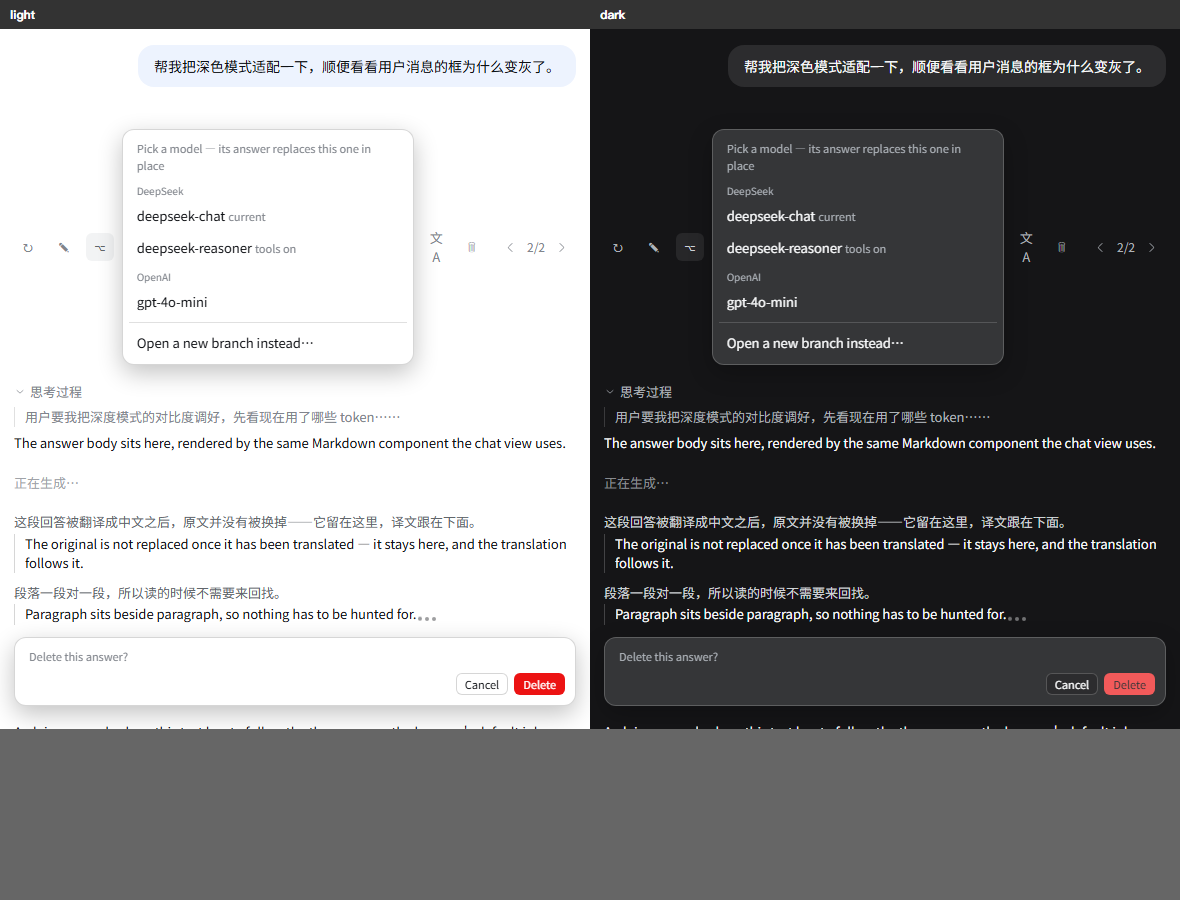
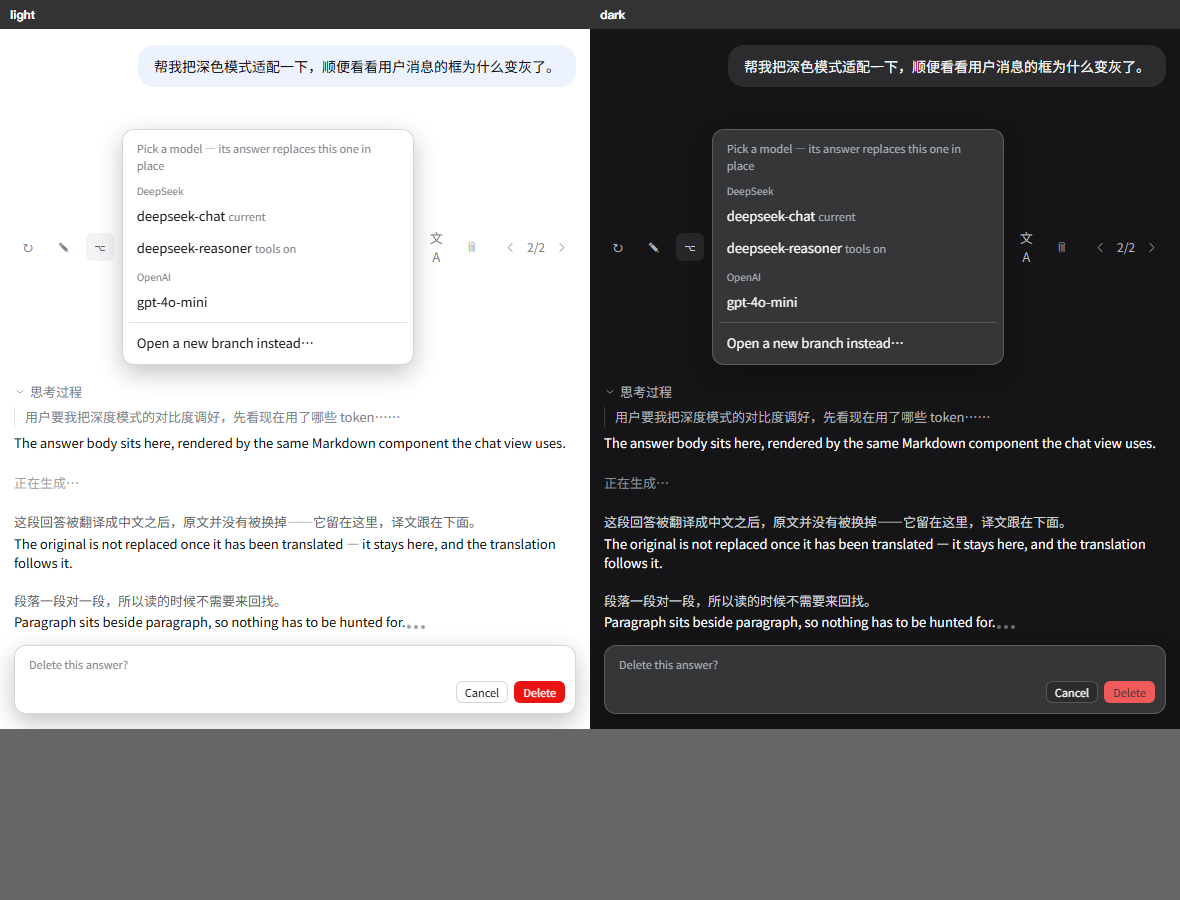
feat: do not translate text that is already in the target language
a sentence whose script is the target script is lifted out with the code and
formulas, so a half-Chinese answer translated into Chinese is neither sent to the
model nor drawn twice: on screen a pair whose halves match renders once.

also drops the rule beside a translation — the halves are told apart by ink.

diff --git a/lib/index.js b/lib/index.js
@@ -629,8 +629,9 @@ const TRANSLATE_SYSTEM = [
   'You are a precise professional translator.',
   'Translate the user-supplied text into the requested target language.',
   'Preserve Markdown formatting, links, lists and numbers exactly.',
-  'The text contains placeholders such as ⟦1⟧ standing for code and formulas that must not be touched:',
-  'copy every placeholder into your translation unchanged, in the same order, without translating them.',
+  'The text contains placeholders such as ⟦1⟧ standing for code, formulas and sentences already written in',
+  'the target language: copy every placeholder into your translation unchanged, in the same order, without',
+  'translating them and without repeating them.',
   'Do not translate code identifiers, file paths, URLs or model names.',
   'Do not add commentary, explanations or notes.',
   'Reply with ONLY the translated text.',
@@ -657,15 +658,68 @@ const INLINE_PATTERNS = [
 ];
 
 /**
- * Lift code and formulas out of the text, leaving `⟦n⟧` placeholders behind. A
- * block that already stood on its own (a fence, display math between paragraphs)
- * keeps that standing: it gets its own paragraph, because a fence that comes back
- * mid-sentence would render as plain text instead of a code block. Display math
- * written inside a sentence stays inline, where it was.
+ * Which script a target language is written in. Only used for languages whose text
+ * can be recognised by script: for those, a sentence already in the target language
+ * is not worth sending to a translator (or reading twice). Latin-script targets are
+ * absent on purpose — "English" and "German" look alike letter for letter.
  */
-function protectText(text) {
+const TARGET_SCRIPTS = {
+  zh: ['han'],
+  'zh-TW': ['han'],
+  ja: ['kana', 'han'],
+  ko: ['hangul'],
+  ru: ['cyrillic'],
+};
+
+const SCRIPT_TESTS = {
+  han: /[\u3400-\u4dbf\u4e00-\u9fff\uf900-\ufaff]/g,
+  kana: /[\u3040-\u30ff\u31f0-\u31ff]/g,
+  hangul: /[\u1100-\u11ff\u3130-\u318f\uac00-\ud7af]/g,
+  cyrillic: /[\u0400-\u04ff]/g,
+};
+
+const WORD_CHARS = /[A-Za-z\u00c0-\u024f\u0400-\u04ff\u3040-\u30ff\u3400-\u4dbf\u4e00-\u9fff\uac00-\ud7af]/g;
+
+function countMatches(text, pattern) {
+  const found = text.match(pattern);
+  return found === null ? 0 : found.length;
+}
+
+/**
+ * Is this piece already written in the target language? Judged by script share, which
+ * is decisive for Chinese/Japanese/Korean/Russian and deliberately unused for Latin
+ * scripts.
+ */
+function alreadyInTarget(piece, scripts) {
+  const words = countMatches(piece, WORD_CHARS);
+  if (words === 0) return false;
+  let mine = 0;
+  for (const script of scripts) mine += countMatches(piece, SCRIPT_TESTS[script]);
+  // Two characters is the shortest piece worth calling a sentence; below that the
+  // share is just noise from a stray word.
+  return mine >= 2 && mine / words >= 0.5;
+}
+
+/**
+ * Lift every sentence that is already in the target language, so it is neither sent
+ * to the model nor translated a second time. This runs before the code patterns,
+ * because a sentence like `先运行 \`npm run build\` 再继续。` should be kept whole —
+ * code included — rather than half-protected twice.
+ */
+function liftTargetLanguage(text, lang, kept) {
+  const scripts = TARGET_SCRIPTS[lang];
+  if (scripts === undefined) return text;
+  return text.replace(/[^\n。！？；!?;]+[。！？；!?;]?/g, (piece) => {
+    if (!alreadyInTarget(piece, scripts)) return piece;
+    kept.push(piece);
+    return `⟦${kept.length}⟧`;
+  });
+}
+
+/** Lift code, formulas and already-translated sentences out of the text. */
+function protectText(text, lang) {
   const kept = [];
-  let out = text;
+  let out = liftTargetLanguage(text, lang, kept);
   const lift = (block) => (match, offset, whole) => {
     kept.push(match);
     const token = `⟦${kept.length}⟧`;
@@ -781,7 +835,7 @@ async function translateMessage(ctx, operation, sink) {
     });
   }
   // Code and formulas stay out of the request entirely — see PROTECTED_PATTERNS.
-  const guarded = protectText(text);
+  const guarded = protectText(text, lang);
   let raw = '';
   let sent = 0;
   let failed;

diff --git a/lib/client.js b/lib/client.js
@@ -541,6 +541,17 @@ function pairParagraphs(source, translated) {
   return pairs;
 }
 
+/**
+ * Whether both sides say the same thing. A sentence that was already in the target
+ * language comes back untouched, and drawing it twice would read as a duplicate.
+ */
+function sameText(left, right) {
+  if (typeof left !== 'string' || typeof right !== 'string') return false;
+  const norm = function (text) { return text.replace(/\s+/g, ' ').trim(); };
+  const a = norm(left);
+  return a.length > 0 && a === norm(right);
+}
+
 /** The text this turn would show with the translation switched off. */
 function originOf(state, turn) {
   const origins = state ? state.origins : null;
@@ -2043,12 +2054,16 @@ function AnswerCard(props) {
       h('div', { className: 'mtt-pair' },
         pairs.map(function (pair, index) {
           const last = index === pairs.length - 1;
+          // A sentence that was already in the target language comes back verbatim:
+          // drawing it twice would read as a duplicate, so it is drawn once.
+          const unchanged = !streaming && sameText(pair.source, pair.translation);
           return h('div', { key: index, className: 'mtt-pair-block' },
             pair.source === undefined ? null
               : h('div', { className: 'mtt-pair-src' }, h(AnswerBody, { text: pair.source })),
-            h('div', { className: 'mtt-pair-tr' },
-              waiting && last ? null : h(AnswerBody, { text: pair.translation, streaming: streaming }),
-              streaming && last ? h(Dots, null) : null));
+            unchanged ? null
+              : h('div', { className: 'mtt-pair-tr' },
+                waiting && last ? null : h(AnswerBody, { text: pair.translation, streaming: streaming }),
+                streaming && last ? h(Dots, null) : null));
         })),
       !streaming && translation.truncated === true
         ? h('div', { className: 'mtt-pair-note' }, t('translationTruncated'))
@@ -3225,7 +3240,7 @@ const CSS = [
   '.mtt-pair{display:flex;flex-direction:column;gap:18px;min-width:0}',
   '.mtt-pair-block{display:flex;flex-direction:column;gap:2px;min-width:0}',
   '.mtt-pair-src{color:var(--mtt-fg-2);min-width:0}',
-  '.mtt-pair-tr{padding-left:10px;border-left:2px solid var(--mtt-line-strong);color:var(--mtt-fg);min-width:0}',
+  '.mtt-pair-tr{color:var(--mtt-fg);min-width:0}',
   '.mtt-dots{display:inline-flex;align-items:center;gap:3px;height:1em;vertical-align:-.1em;margin-left:2px}',
   '.mtt-dots i{width:4px;height:4px;border-radius:50%;background:currentColor;opacity:.4;animation:mtt-dot 900ms ease-in-out infinite}',
   '.mtt-dots i:nth-child(2){animation-delay:120ms}',

diff --git a/plugin.client.js b/plugin.client.js
@@ -521,6 +521,17 @@ function pairParagraphs(source, translated) {
   return pairs;
 }
 
+/**
+ * Whether both sides say the same thing. A sentence that was already in the target
+ * language comes back untouched, and drawing it twice would read as a duplicate.
+ */
+function sameText(left, right) {
+  if (typeof left !== 'string' || typeof right !== 'string') return false;
+  const norm = function (text) { return text.replace(/\s+/g, ' ').trim(); };
+  const a = norm(left);
+  return a.length > 0 && a === norm(right);
+}
+
 /** The text this turn would show with the translation switched off. */
 function originOf(state, turn) {
   const origins = state ? state.origins : null;
@@ -2023,12 +2034,16 @@ function AnswerCard(props) {
       h('div', { className: 'mtt-pair' },
         pairs.map(function (pair, index) {
           const last = index === pairs.length - 1;
+          // A sentence that was already in the target language comes back verbatim:
+          // drawing it twice would read as a duplicate, so it is drawn once.
+          const unchanged = !streaming && sameText(pair.source, pair.translation);
           return h('div', { key: index, className: 'mtt-pair-block' },
             pair.source === undefined ? null
               : h('div', { className: 'mtt-pair-src' }, h(AnswerBody, { text: pair.source })),
-            h('div', { className: 'mtt-pair-tr' },
-              waiting && last ? null : h(AnswerBody, { text: pair.translation, streaming: streaming }),
-              streaming && last ? h(Dots, null) : null));
+            unchanged ? null
+              : h('div', { className: 'mtt-pair-tr' },
+                waiting && last ? null : h(AnswerBody, { text: pair.translation, streaming: streaming }),
+                streaming && last ? h(Dots, null) : null));
         })),
       !streaming && translation.truncated === true
         ? h('div', { className: 'mtt-pair-note' }, t('translationTruncated'))
@@ -3205,7 +3220,7 @@ const CSS = [
   '.mtt-pair{display:flex;flex-direction:column;gap:18px;min-width:0}',
   '.mtt-pair-block{display:flex;flex-direction:column;gap:2px;min-width:0}',
   '.mtt-pair-src{color:var(--mtt-fg-2);min-width:0}',
-  '.mtt-pair-tr{padding-left:10px;border-left:2px solid var(--mtt-line-strong);color:var(--mtt-fg);min-width:0}',
+  '.mtt-pair-tr{color:var(--mtt-fg);min-width:0}',
   '.mtt-dots{display:inline-flex;align-items:center;gap:3px;height:1em;vertical-align:-.1em;margin-left:2px}',
   '.mtt-dots i{width:4px;height:4px;border-radius:50%;background:currentColor;opacity:.4;animation:mtt-dot 900ms ease-in-out infinite}',
   '.mtt-dots i:nth-child(2){animation-delay:120ms}',

diff --git a/README.md b/README.md
@@ -22,7 +22,7 @@ Cherry Studio.
 | **Failed answers** | turns that ended in an error | DSH draws an action row only for a turn that has a closing message, so a failed answer would have none. The toolbar draws one itself for that turn: regenerate, regenerate with another model, delete. No edit or translate — there is no text to work on. |
 | **Switch model** | assistant messages | Same mechanism with another provider/model: every model's answer becomes a variant of the *same* turn, and `‹ 2/3 ›` walks them without leaving the conversation. The picker is DSH's own dropdown (the one under the composer), so it looks and keys exactly like the rest of the app; its last row instead opens a real branch when you want a full agent run with tools. |
 | **Edit answer** | assistant messages & answer card | The pencil turns the answer into an editor *where the answer stands*: a bordered box holding the markdown source of its text (tool and file-change blocks are not part of it, so they stay on screen), labelled `Editing` with a ✕ to leave and a save button on the right. Esc closes, ⌘/Ctrl+Enter saves. **Saving overwrites what was on screen** — the ring does not grow a second answer — and the result is rendered by the same markdown body as a generated answer, so it looks unchanged. A logged answer that no API can rewrite takes an override instead, with one muted line (Edited by you · Restore the original) to give the model's text back. |
-| **Translate** | assistant answers | Pressing translate opens a dropdown of target languages (the same native menu as the model picker) — pick one and the answer is redrawn **bilingual, block by block**: original paragraph, its translation, next paragraph, all by the same markdown renderer, so the layout does not move and nothing is covered. It is a reading mode, not a second panel, and the language list ticks nothing (picking a language is a command, not a setting); the menu's first row then reads "Hide the translation". Cached per session + turn + language, so switching languages is instant and reloading does not re-bill. While the request is out, the translate button becomes a turning loading arc (the app's own) and cannot be pressed again; the glyph returns when the answer lands. The translation itself is **streamed**: the paired page appears at the first token and grows as the model writes, with three dots bobbing in the translation column until the first words arrive. No token cap is sent, because a translation is exactly as long as the text it translates. **Code and formulas never reach the model**: fenced blocks, inline code and math are lifted out and replaced with ⟦1⟧ placeholders, then put back byte for byte, so console.log(x) and \frac{a}{b} cannot be rewritten or reformatted — what comes back is the original, character for character. |
+| **Translate** | assistant answers | Pressing translate opens a dropdown of target languages (the same native menu as the model picker) — pick one and the answer is redrawn **bilingual, block by block**: original paragraph, its translation, next paragraph, all by the same markdown renderer, so the layout does not move and nothing is covered. It is a reading mode, not a second panel, and the language list ticks nothing (picking a language is a command, not a setting); the menu's first row then reads "Hide the translation". Cached per session + turn + language, so switching languages is instant and reloading does not re-bill. While the request is out, the translate button becomes a turning loading arc (the app's own) and cannot be pressed again; the glyph returns when the answer lands. The translation itself is **streamed**: the paired page appears at the first token and grows as the model writes, with three dots bobbing in the translation column until the first words arrive. No token cap is sent, because a translation is exactly as long as the text it translates. **Code and formulas never reach the model**: fenced blocks, inline code and math are lifted out and replaced with ⟦1⟧ placeholders, then put back byte for byte, so console.log(x) and \frac{a}{b} cannot be rewritten or reformatted — what comes back is the original, character for character. Sentences that are **already in the target language** are lifted out the same way — translating Chinese into Chinese only produces a second copy of the paragraph — and on screen a pair whose two halves match is drawn once. |
 | **Delete** | version cards | Soft-deletes a version: the card is hidden from the ring and the version tree but the session log is untouched and it can be restored. The root conversation can never be deleted. |
 | **Delete message / answer** | user bubbles & assistant answers | Two different scopes, and the toolbar follows them. On a user bubble it removes the whole turn — prompt, answer, tool cards, action row — because an answer without its question is not a turn. On an answer it removes only that answer's side: body, process card, tool cards, error banner and the action row that belonged to it, while the prompt keeps its own row and toolbar so the turn can be asked again. Either way nothing is left behind (no placeholder, no "restore" row) and a toast confirms it. |
 | **Version ring** | `‹ 2/3 ›` chip | Walks the answer variants of a turn (`1` is always the model's logged answer) and the sibling versions of a turn, without leaving the conversation. |
@@ -212,7 +212,7 @@ MIT
 | **失败的回答** | 报错结束的轮次 | DSH 只为有收尾消息的轮次画动作行，所以失败的回答本来没有工具栏。插件给这种轮次自己补一行：重新生成、换个模型重答、删除。没有编辑和翻译——没有文本可编辑、也没有内容可翻译。 |
 | **切换模型** | 助手消息 | 同一机制换 provider/模型：每个模型的回答都是**同一轮**的备选，`‹ 2/3 ›` 就地来回切换，不离开当前对话。模型选择器直接复用输入框右下角那个原生下拉（外观与键盘操作完全一致），它的最后一行则走真正的分支，用于需要调用工具的完整重跑。 |
 | **编辑回答** | 助手消息 / 回答卡片 | 点铅笔就在**回答原来的位置**变成编辑器：带边框的框里放这条回答的 markdown 源码（工具调用、文件改动不属于它的文本，所以留在框外照常显示），左上角写「编辑中」，右上角是 ✕（退出）和保存。Esc 退出，⌘/Ctrl+Enter 保存。**保存是直接覆盖你正在看的那份**——环里不会多出一个回答——而且用同一个 markdown 正文渲染器显示，所以样式和模型生成的一模一样；只有模型原本那条（日志改不了）会改成一条覆盖文本存在这一轮的记录里，下方不再多任何一行。 |
-| **翻译** | 助手回答 | 点翻译直接弹出语言下拉（就是切换模型那个原生菜单），选一种语言，回答就**就地按段对照**重画——原文一段、译文一段、再下一段——还是同一个 Markdown 渲染器，排版不动、也没有东西被盖住。它是一种阅读模式而不是第二块面板；语言列表里不会打钩（选语言是命令，不是设置），译文显示时菜单第一行是「隐藏译文」。按 会话+轮次+语言 缓存，换语言即时、刷新不会重复计费。翻译请求在路上时，翻译按钮会变成转圈的加载图标（应用自带的那个），期间不能重复点；拿到结果后就变回图标。译文本身是**流式**的：第一个 token 到达时对照页就出现，随后一段段长出来，文字到来之前译文那一栏是三个上下跳动的点。请求里不带 token 上限——译文有多长，取决于它译的原文有多长。**代码和公式不会发给模型**：围栏代码块、行内代码、行内与独立公式都会先被抽出来换成 ⟦1⟧ 占位符，模型译完再原样放回去，所以 console.log(x) 和 \\frac{a}{b} 不会被改写、不会被重排——拿回来的跟原文一字不差。 |
+| **翻译** | 助手回答 | 点翻译直接弹出语言下拉（就是切换模型那个原生菜单），选一种语言，回答就**就地按段对照**重画——原文一段、译文一段、再下一段——还是同一个 Markdown 渲染器，排版不动、也没有东西被盖住。它是一种阅读模式而不是第二块面板；语言列表里不会打钩（选语言是命令，不是设置），译文显示时菜单第一行是「隐藏译文」。按 会话+轮次+语言 缓存，换语言即时、刷新不会重复计费。翻译请求在路上时，翻译按钮会变成转圈的加载图标（应用自带的那个），期间不能重复点；拿到结果后就变回图标。译文本身是**流式**的：第一个 token 到达时对照页就出现，随后一段段长出来，文字到来之前译文那一栏是三个上下跳动的点。请求里不带 token 上限——译文有多长，取决于它译的原文有多长。**代码和公式不会发给模型**：围栏代码块、行内代码、行内与独立公式都会先被抽出来换成 ⟦1⟧ 占位符，模型译完再原样放回去，所以 console.log(x) 和 \\frac{a}{b} 不会被改写、不会被重排——拿回来的跟原文一字不差。**本来就是目标语言的句子**同样被抽出来——中文译成中文只会多出一份重复——页面上如果一对原文与译文完全相同，就只画一次。 |
 | **删除** | 版本卡片 | 软删除：从版本徽标和版本树里隐藏，但会话日志不动，可随时恢复。根对话永远不可删除。 |
 | **删除消息 / 回答** | 用户气泡 / 助手回答 | 把某一轮（消息、回答、工具卡片）或单独一条回答从对话里删掉，比如清掉某一轮卡住后连发的一串「继续」。删掉就真的没了，原位不留任何东西（结果用顶部提示条告诉你）。 |
 | **版本左右翻** | `‹ 2/3 ›` 徽标 | 在不离开当前对话的情况下翻看这一轮的回答备选（第 1 位永远是模型原始回答）以及同轮的不同版本。 |

diff --git a/docs/ARCHITECTURE.md b/docs/ARCHITECTURE.md
@@ -355,6 +355,17 @@ Two consequences worth writing down, because both were bugs once:
 
 ### Streaming a translation
 
+`translate` accepts `stream: true` and answers with the same NDJSON frames `answer-generate` does — `start`
+(with `seq`, `turn`, `lang`, `provider`, `model`), one `delta` per token batch, then `done` carrying the same
+payload a plain POST would return (cached translations answer with a single `done`). Host side both writers
+share `respondStream(response, run)`; client side both share `streamOperation(operation, handlers)`, so there
+is one reader to trust. The translation has its own live cell (`store.liveTranslations`, keyed
+`${sessionId}|${turn}`) because nothing else about the turn is changing while it arrives: `AnswerCard` draws
+the paired page on the first delta, and while the text is still empty it draws three bobbing dots (`.mtt-dots`)
+in the translation column. During the stream the card keeps the whole original in one block and grows the
+translation beneath it, so blocks never re-pair mid-sentence; paragraph pairing happens once, when the
+translation is complete.
+
 ### Code and formulas are not translated
 
 Handing code to a translator is asking for it to be rewritten: an identifier gets translated, a fence gets
@@ -368,16 +379,15 @@ inline, where it was. The system prompt tells the model to copy placeholders unc
 that has only partly arrived (`settledLength()`), so `⟦1` never appears on screen. The finished translation
 collapses any padding blank lines (`/\n{3,}/g` → `\n\n`).
 
-`translate` accepts `stream: true` and answers with the same NDJSON frames `answer-generate` does — `start`
-(with `seq`, `turn`, `lang`, `provider`, `model`), one `delta` per token batch, then `done` carrying the same
-payload a plain POST would return (cached translations answer with a single `done`). Host side both writers
-share `respondStream(response, run)`; client side both share `streamOperation(operation, handlers)`, so there
-is one reader to trust. The translation has its own live cell (`store.liveTranslations`, keyed
-`${sessionId}|${turn}`) because nothing else about the turn is changing while it arrives: `AnswerCard` draws
-the paired page on the first delta, and while the text is still empty it draws three bobbing dots (`.mtt-dots`)
-in the translation column. During the stream the card keeps the whole original in one block and grows the
-translation beneath it, so blocks never re-pair mid-sentence; paragraph pairing happens once, when the
-translation is complete.
+Text already written in the target language is lifted by the same mechanism, and lifted *first*:
+`liftTargetLanguage()` rewrites sentence by sentence (`/[^\n。！？；!?;]+[。！？；!?;]?/g`) and replaces any piece
+whose share of the target script is at least half with a placeholder. `TARGET_SCRIPTS` only covers languages a
+script can identify — Chinese (han), Japanese (kana + han), Korean (hangul), Russian (cyrillic); Latin-script
+targets are absent on purpose, because "English" and "German" are indistinguishable letter for letter and a
+wrong guess would leave a paragraph untranslated. Lifting runs before the code patterns so that
+`先运行 \`npm run build\` 再继续。` is kept whole, code included. On the client, a pair whose two sides are the
+same text after whitespace normalisation (`sameText()`) is drawn once: a sentence that needed no translating
+should not appear twice.
 
 ## Compatibility notes
 

diff --git a/CHANGELOG.md b/CHANGELOG.md
@@ -1,5 +1,17 @@
 # Changelog
 
+## 0.9.2
+
+- **Text already in the target language is not translated again.** Sentences are checked for the target
+  script (`TARGET_SCRIPTS`: han for Chinese, kana + han for Japanese, hangul, cyrillic) and lifted out before
+  the request, so translating a half-Chinese answer into Chinese no longer produces a second copy of the
+  Chinese half — it is neither sent to the model nor billed. Latin-script targets are deliberately excluded:
+  a script cannot tell English from German, and a wrong guess would leave a paragraph untranslated.
+- **A pair that matches is drawn once.** On screen, a paragraph whose translation came back identical to the
+  original is rendered as one block instead of two.
+- **No rule beside a translation.** `.mtt-pair-tr` loses its left border and inset; the two halves are told
+  apart by colour alone, and the sizing stays: 2px original → translation, 18px before the next original.
+
 ## 0.9.1
 
 - **Code and formulas are never translated.** Fenced blocks, inline code, display math and inline math are
